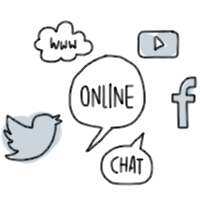
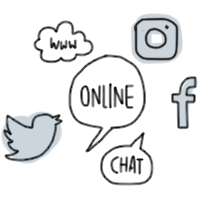
new copy

Changed region(s): [[0.63, 0.06, 0.93, 0.33]]

diff --git a/index.html b/index.html
@@ -36,7 +36,7 @@
 		<div class="main-content">
 
 		    <h3 class="main-content_heading">
-		    Let Hightower's digital marketing and advertising experts generate the leads that turn into hires.
+		    Let Hightower's digital marketing and advertising experts generate leads that turn into hires.
 		    </h3>
 
 			<section class="pay-per-click">
@@ -48,7 +48,7 @@
 						<div class="col-75">
 							<h3>Pay-Per-Click Results</h3>
 							<h4>Over 40,000,000 impressions and counting.</h4>
-							<p>We know how to drive more qualified prospects to your website and landing page &mdash; through PPC campaigns that get results. Quickly adjust to changing hiring needs or market conditions through highly targeted ads that boost your conversions. </p>
+							<p>We know how to drive more qualified prospects to your website and landing page through paid search campaigns that get results. Quickly adjust to changing hiring needs or market conditions through highly targeted ads that boost your conversions.</p>
 						</div>
 					</div>
 				</div>
@@ -63,7 +63,7 @@
 						<div class="col-75">
 							<h3>Social Media Experts</h3>
 							<h4>Targeting applicants through meaningful engagement.</h4>
-							<p>Ramp up your applications by networking where the truck drivers are. We’ll keep your Facebook, Twitter, YouTube, LinkedIn, Pinterest, Instagram and other social media campaigns on target and working &mdash; through timely content and lead-generating ads.</p>
+							<p>Ramp up your applications by networking where truck drivers are. We’ll manage your Facebook, Instagram, Twitter and LinkedIn with engaging content and lead-generating campaigns.</p>
 						</div>
 					</div>
 				</div>
@@ -78,7 +78,7 @@
 						<div class="col-75">
 							<h3>Create &amp; Monitor Content</h3>
 							<h4>Your message is in good hands.</h4>
-							<p>We don’t offer cookie-cutter solutions. Instead, we’ll craft a compelling message that puts your brand to it's best advantage &mdash; to attract new drivers and engage current employees. However you desire to showcase your company, we’ll get your story heard by the world.
+							<p>We don’t offer cookie-cutter solutions. Instead, we’ll craft a compelling message that puts your brand to its best advantage to attract new drivers and engage current employees. We’ll get your story heard by the world. 
 </p>
 						</div>
 					</div>
@@ -94,7 +94,7 @@
 						<div class="col-75">
 							<h3>Up-to-Date Analytics</h3>
 							<h4>We pay constant attention to performance.</h4>
-							<p>Are you getting the highest ROI? This is no place for guesswork. With our web analytics you’ll always know which elements of your communication strategy are producing the best truck driver leads, conversions and applications for you &mdash; in real numbers.</p>
+							<p>Are you getting the right ROI? This is no place for guesswork. With Hightower, you’ll always know which elements of your recruitment strategy are producing the best truck driver leads, conversions and applications for you in real numbers.</p>
 						</div>
 					</div>
 				</div>
@@ -110,10 +110,20 @@ every dollar you spend.
 	    		</h3>
 
 	    		<form>
-	    			<div class="field"><input type="email" placeholder="Your email"></div>
-	    			<div class="field"><input type="text" placeholder="Your name"></div>
+	    			<div class="field"><input type="email" placeholder="Your name"></div>
+	    			<div class="field"><input type="text" placeholder="Your email"></div>
 	    			<div class="field"><input type="text" placeholder="Company name"></div>
-	    			<div class="field"><input type="text" placeholder="Your title"></div>
+	    			<div class="field">
+	    				<div class="select-style">
+	    					<select>
+	    						<option value="" selected>Choose area of focus</option>
+	    						<option value="Executive">Executive</option>
+								<option value="Marketing">Marketing</option>
+								<option value="Recruiting">Recruiting</option>
+								<option value="Other">Other</option>
+	    				    </select>	
+	    				</div>
+	    			</div>
 	    			<div class="field"><input type="text" placeholder="Phone (optional)"></div>
 	    			<div class="field"><button class="btn_primary" type="submit">Let's Talk</button></div>
 	    		</form>

diff --git a/sass/_globals.scss b/sass/_globals.scss
@@ -243,17 +243,45 @@ section{
             }
         }
     }
+    .select-style {
+        height:60px;
+        padding:0;
+        border:none;
+        border-radius:8px;
+        color:$blue;
+        overflow: hidden;
+        background: rgba(255,255,255,1) url(../img/chevron-down.png) no-repeat right 20px center;
+    }
+    .select-style select {
+        padding:10px 20px;
+        width: 100%;
+        height:60px;
+        margin-left:10px;
+        font-size:16px;
+        font-family:"Montserrat", sans-serif;
+        font-weight:400;
+        border: none;
+        box-shadow: none;
+        background-color: transparent;
+        background-image: none;
+        -webkit-appearance: none;
+           -moz-appearance: none;
+                appearance: none;
+    }
+    .select-style select:focus {
+        outline: none;
+    }
     ::-webkit-input-placeholder { 
-      color: #777;
+      color: $blue;
     }
     ::-moz-placeholder { 
-      color: #777;
+      color: $blue;
     }
     :-ms-input-placeholder { 
-      color: #777;
+      color: $blue;
     }
     :-moz-placeholder { 
-      color: #777;
+      color: $blue;
     }
     .btn_primary{
         font-size:22px;

diff --git a/css/main.css b/css/main.css
@@ -248,17 +248,45 @@ section:nth-child(odd) .col-25 {
 .contact-form .field input:focus {
   outline: none;
 }
+.contact-form .select-style {
+  height: 60px;
+  padding: 0;
+  border: none;
+  border-radius: 8px;
+  color: #1e2429;
+  overflow: hidden;
+  background: white url(../img/chevron-down.png) no-repeat right 20px center;
+}
+.contact-form .select-style select {
+  padding: 10px 20px;
+  width: 100%;
+  height: 60px;
+  margin-left: 10px;
+  font-size: 16px;
+  font-family: "Montserrat", sans-serif;
+  font-weight: 400;
+  border: none;
+  box-shadow: none;
+  background-color: transparent;
+  background-image: none;
+  -webkit-appearance: none;
+  -moz-appearance: none;
+  appearance: none;
+}
+.contact-form .select-style select:focus {
+  outline: none;
+}
 .contact-form ::-webkit-input-placeholder {
-  color: #777;
+  color: #1e2429;
 }
 .contact-form ::-moz-placeholder {
-  color: #777;
+  color: #1e2429;
 }
 .contact-form :-ms-input-placeholder {
-  color: #777;
+  color: #1e2429;
 }
 .contact-form :-moz-placeholder {
-  color: #777;
+  color: #1e2429;
 }
 .contact-form .btn_primary {
   font-size: 22px;
